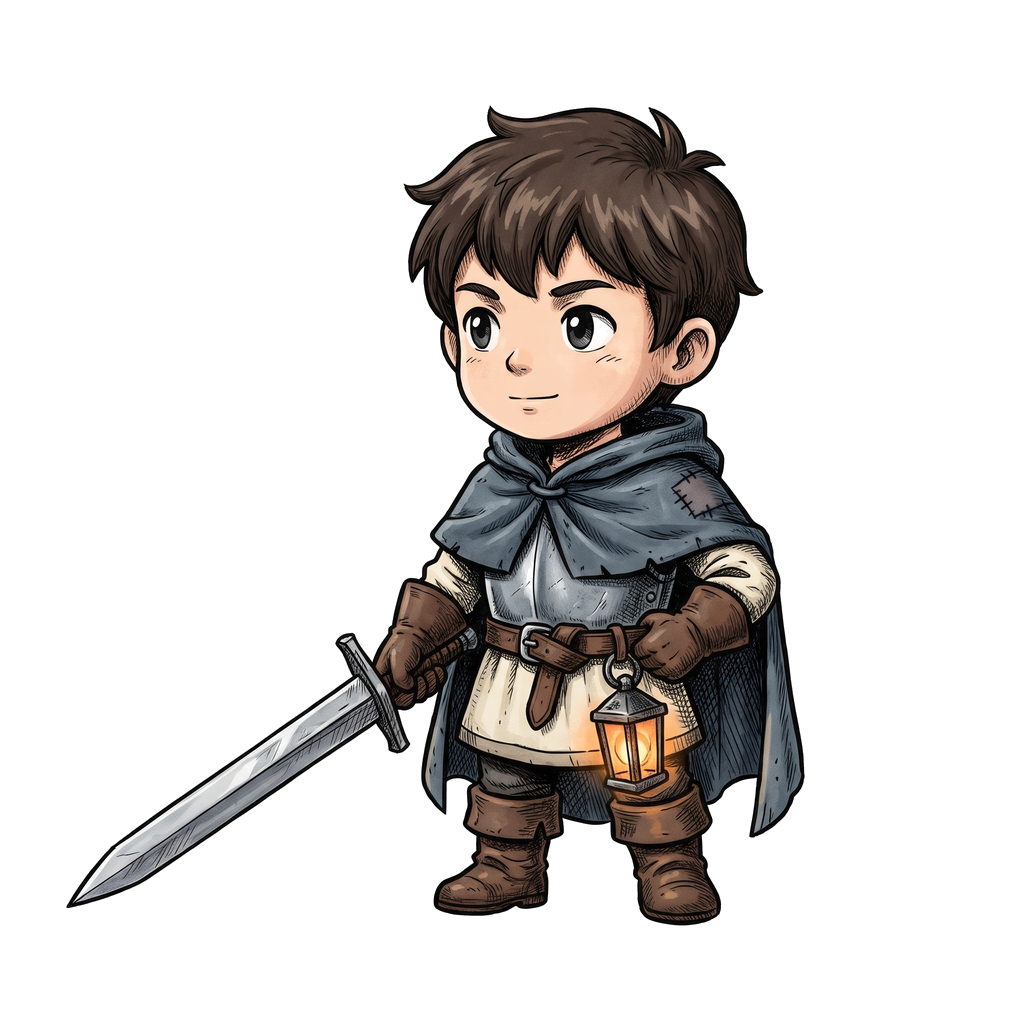
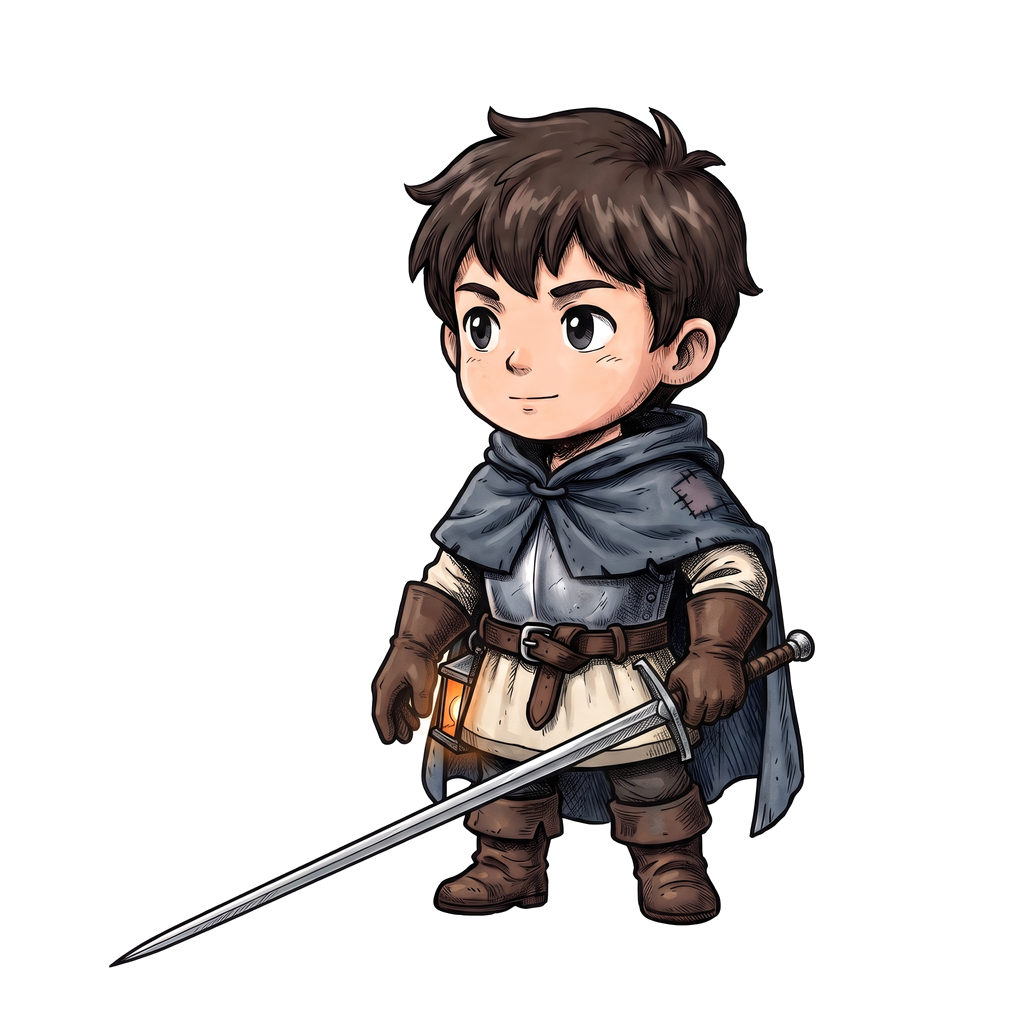
남자 기사 새 자세(긴 칼) 적용, 남녀별 자리 정보, 기사 키 키움
Claude-Session: https://claude.ai/code/session_019ctizXkAJK8e2QXDcDEkS2

diff --git a/index.html b/index.html
@@ -288,7 +288,7 @@ const HEADS = [
 //   lanternPx: 허리 등불의 한가운데.  footPx: 두 발 사이의 x.  figurePx: 발끝에서 머리끝까지의 높이(화면 키 190에 맞춘다)
 const ARMORS = [
   { id:'basic', name:'기본', how:'처음부터', img:{ m:'art/knight/기본-남.png', f:'art/knight/기본-여.png' },
-    lanternPx:[638, 741], footPx:578, figurePx:822, ok:() => true },
+    at:{ m:{ lanternPx:[454, 705], footPx:583, figurePx:836 }, f:{ lanternPx:[638, 741], footPx:578, figurePx:822 } }, ok:() => true },
   { id:'armor2', name:'준비 중인 갑옷', how:'1구역 보스 처치', img:null, ok:() => false },
   { id:'armor3', name:'준비 중인 갑옷', how:'업적 · 이벤트', img:null, ok:() => false },
 ];
@@ -344,7 +344,7 @@ const ICONS = {
 const icon = n => '<svg class="ic" viewBox="0 0 24 24">' + ICONS[n] + '</svg>';
 
 /* ===================================================================== 기본 도구 */
-const FW = 900, FH = 1600, KNIGHT_H = 190, SPR_Q = 2;
+const FW = 900, FH = 1600, KNIGHT_H = 225, SPR_Q = 2;
 const FONT = 'system-ui,-apple-system,"Apple SD Gothic Neo","Malgun Gothic","Noto Sans KR","WenQuanYi Zen Hei",sans-serif';
 const $ = id => document.getElementById(id);
 const rand = (a, b) => a + Math.random() * (b - a);
@@ -496,6 +496,7 @@ function knightArt(gender, look) {
     else if (slot === 'armor') break;                 // 바탕 그림이 없으면 임시 기사를 쓴다
   }
   if (layers.length) {
+    if (base && base.at && base.at[gender]) base = Object.assign({}, base, base.at[gender]);   // 자리 정보는 남녀 그림마다 다르다
     // 모든 겹은 같은 캔버스를 쓴다. 겹친 전체에서 빈 곳만 한 번에 잘라 낸다.
     const b = [1e9, 1e9, -1, -1];
     for (const l of layers) { b[0] = Math.min(b[0], l.bb[0]); b[1] = Math.min(b[1], l.bb[1]); b[2] = Math.max(b[2], l.bb[2]); b[3] = Math.max(b[3], l.bb[3]); }
